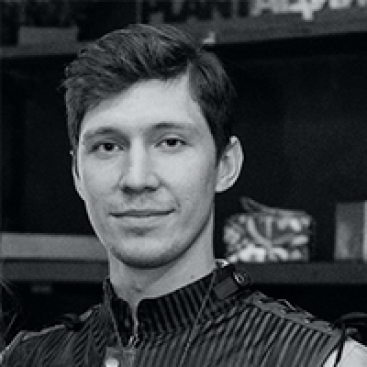
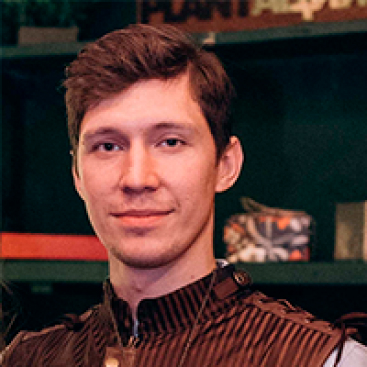
Правки

diff --git a/src/js/main.js b/src/js/main.js
@@ -43,6 +43,7 @@ import vacancyOtherSlider from "./helpers/vacancyOtherSlider";
 import resetButtons from "./helpers/resetButtons";
 import teamSlider from "./helpers/teamSlider";
 import copyRequisites from "./helpers/copyRequisites";
+import teamCardTips from "./helpers/teamCardTips";
 
 documenReady(() => {
   window.rdv_API = { };
@@ -65,7 +66,6 @@ documenReady(() => {
   customSelects();
   accordions();
   introSlider();
-  moreButtonRow();
   moreButton();
   infinitySlider();
   header();
@@ -87,11 +87,13 @@ documenReady(() => {
   resetButtons();
   teamSlider();
   copyRequisites();
+  teamCardTips();
 });
 
 document.fonts.ready.then((res) => {
-  alignHeights('.cooperation__list', '.cooperation__item-text', true)
-  alignHeights('.about-features__directions', '.about-features__direction-top', true)
+  alignHeights('.cooperation__list', '.cooperation__item-text', true);
+  alignHeights('.about-features__directions', '.about-features__direction-top', true);
+  moreButtonRow();
 })
 
 window.addEventListener('load', function () {

diff --git a/src/js/helpers/anchorLinks.js b/src/js/helpers/anchorLinks.js
@@ -12,7 +12,7 @@ import { ScrollToPlugin } from 'gsap/dist/ScrollToPlugin';
 gsap.registerPlugin(ScrollToPlugin);
 
 export default function anchorLinks() {
-    const OFFSET = 80;
+    const OFFSET = 200;
     const DURATION = 2;
     const scrollByHash = (hash) => {
       let elementToScroll;
@@ -58,6 +58,16 @@ export default function anchorLinks() {
                 scrollByHash(hash);
             }
         }
+
+      if (event.target.matches('button') || event.target.closest('button')) {
+        const button = event.target.matches('button') ? event.target : event.target.closest('button');
+        const hash = button.dataset.path;
+
+        if (hash) {
+          event.preventDefault();
+          scrollByHash(hash);
+        }
+      }
     });
 
     if (window.location.hash) {

diff --git a/src/scss/pages/team/team.scss b/src/scss/pages/team/team.scss
@@ -121,18 +121,16 @@
       border-radius: 2rem;
     }
 
-    img {
-      @extend .fully-filled-el;
-      object-fit: cover;
-      z-index: -1;
+    @include mq('custom', 'min', 1025) {
+      &:hover {
+        .team__large-item-desc {
+          opacity: 1;
+          visibility: visible;
+        }
+      }
     }
 
-    &:hover {
-      .team__large-item-desc {
-        opacity: 1;
-        visibility: visible;
-      }
-
+    &.active {
       .team__large-item-tip {
         svg {
           display: none;
@@ -142,6 +140,17 @@
           }
         }
       }
+
+      .team__large-item-desc {
+        opacity: 1;
+        visibility: visible;
+      }
+    }
+
+    img {
+      @extend .fully-filled-el;
+      object-fit: cover;
+      z-index: -1;
     }
   }
 

diff --git a/src/scss/settings/settings.scss b/src/scss/settings/settings.scss
@@ -516,6 +516,12 @@ a:focus {
     padding-right: max(env(safe-area-inset-right, 1.4rem), var(--content-narrow-padding));
   }
 
+  a {
+    text-decoration: underline;
+    color: var(--main-L-30);
+    text-underline-offset: 0.3rem;
+  }
+
   & > p {
     margin: 2rem 0;
 
@@ -575,10 +581,6 @@ a:focus {
 
   & > h3 {
     @extend .title-h6;
-
-    @include mq('custom', 'max', 1024) {
-      font: var(--title-h1);
-    }
   }
 
   & > h4 {
@@ -626,10 +628,14 @@ a:focus {
     }
 
     @include mq('custom', 'max', 768) {
+      width: calc(100% + 3rem);
+      padding-right: 3rem;
       margin: 2.4rem 0;
     }
 
     @include mq('custom', 'max', 640) {
+      width: calc(100% + 2rem);
+      padding-right: 2rem;
       margin: 2rem 0;
     }
   }

diff --git a/src/scss/pages/index/team-section.scss b/src/scss/pages/index/team-section.scss
@@ -1,4 +1,4 @@
-.team {
+.team-section {
   &__title {
     @extend .title-h1;
 
@@ -37,6 +37,15 @@
 
       border-radius: 1.6rem;
       overflow: hidden;
+      filter: grayscale(1);
+
+      transition: 0.3s;
+
+      @include mq('custom', 'min', 1025) {
+        &:hover {
+          filter: grayscale(0);
+        }
+      }
 
       @include mq('custom', 'max', 1024) {
         width: 28rem;

diff --git a/src/js/helpers/teamCardTips.js b/src/js/helpers/teamCardTips.js
@@ -1,0 +1,11 @@
+export default function teamCardTips() {
+  const tips = document.querySelectorAll('.team__large-item-tip');
+
+  tips.forEach(tip => {
+    const img = tip.closest('.team__large-item-img');
+
+    tip.addEventListener('click', () => {
+      img.classList.toggle('active');
+    })
+  })
+}

diff --git a/src/js/helpers/resetButtons.js b/src/js/helpers/resetButtons.js
@@ -15,6 +15,9 @@ export default function resetButtons() {
       }
     })
 
-    button.addEventListener("click", () => button.style.display = "none")
+    button.addEventListener("click", () => {
+      button.style.display = "none";
+      input.value = "";
+    })
   })
 }

diff --git a/src/scss/pages/index/features.scss b/src/scss/pages/index/features.scss
@@ -115,8 +115,13 @@
       grid-template-columns: repeat(2,1fr);
     }
 
+    @include mq('custom', 'max', 768) {
+      gap: 0.8rem;
+    }
+
     @include mq('custom', 'max', 360) {
       grid-template-columns: 1fr;
+      gap: 0.4rem;
     }
   }
 

diff --git a/src/scss/blocks/content-slider.scss b/src/scss/blocks/content-slider.scss
@@ -78,3 +78,11 @@
     }
   }
 }
+
+.team-gallery .content-slider__slide-img {
+  border-radius: 2.4rem;
+
+  @include mq('custom', 'max', 640) {
+    border-radius: 1.2rem;
+  }
+}
